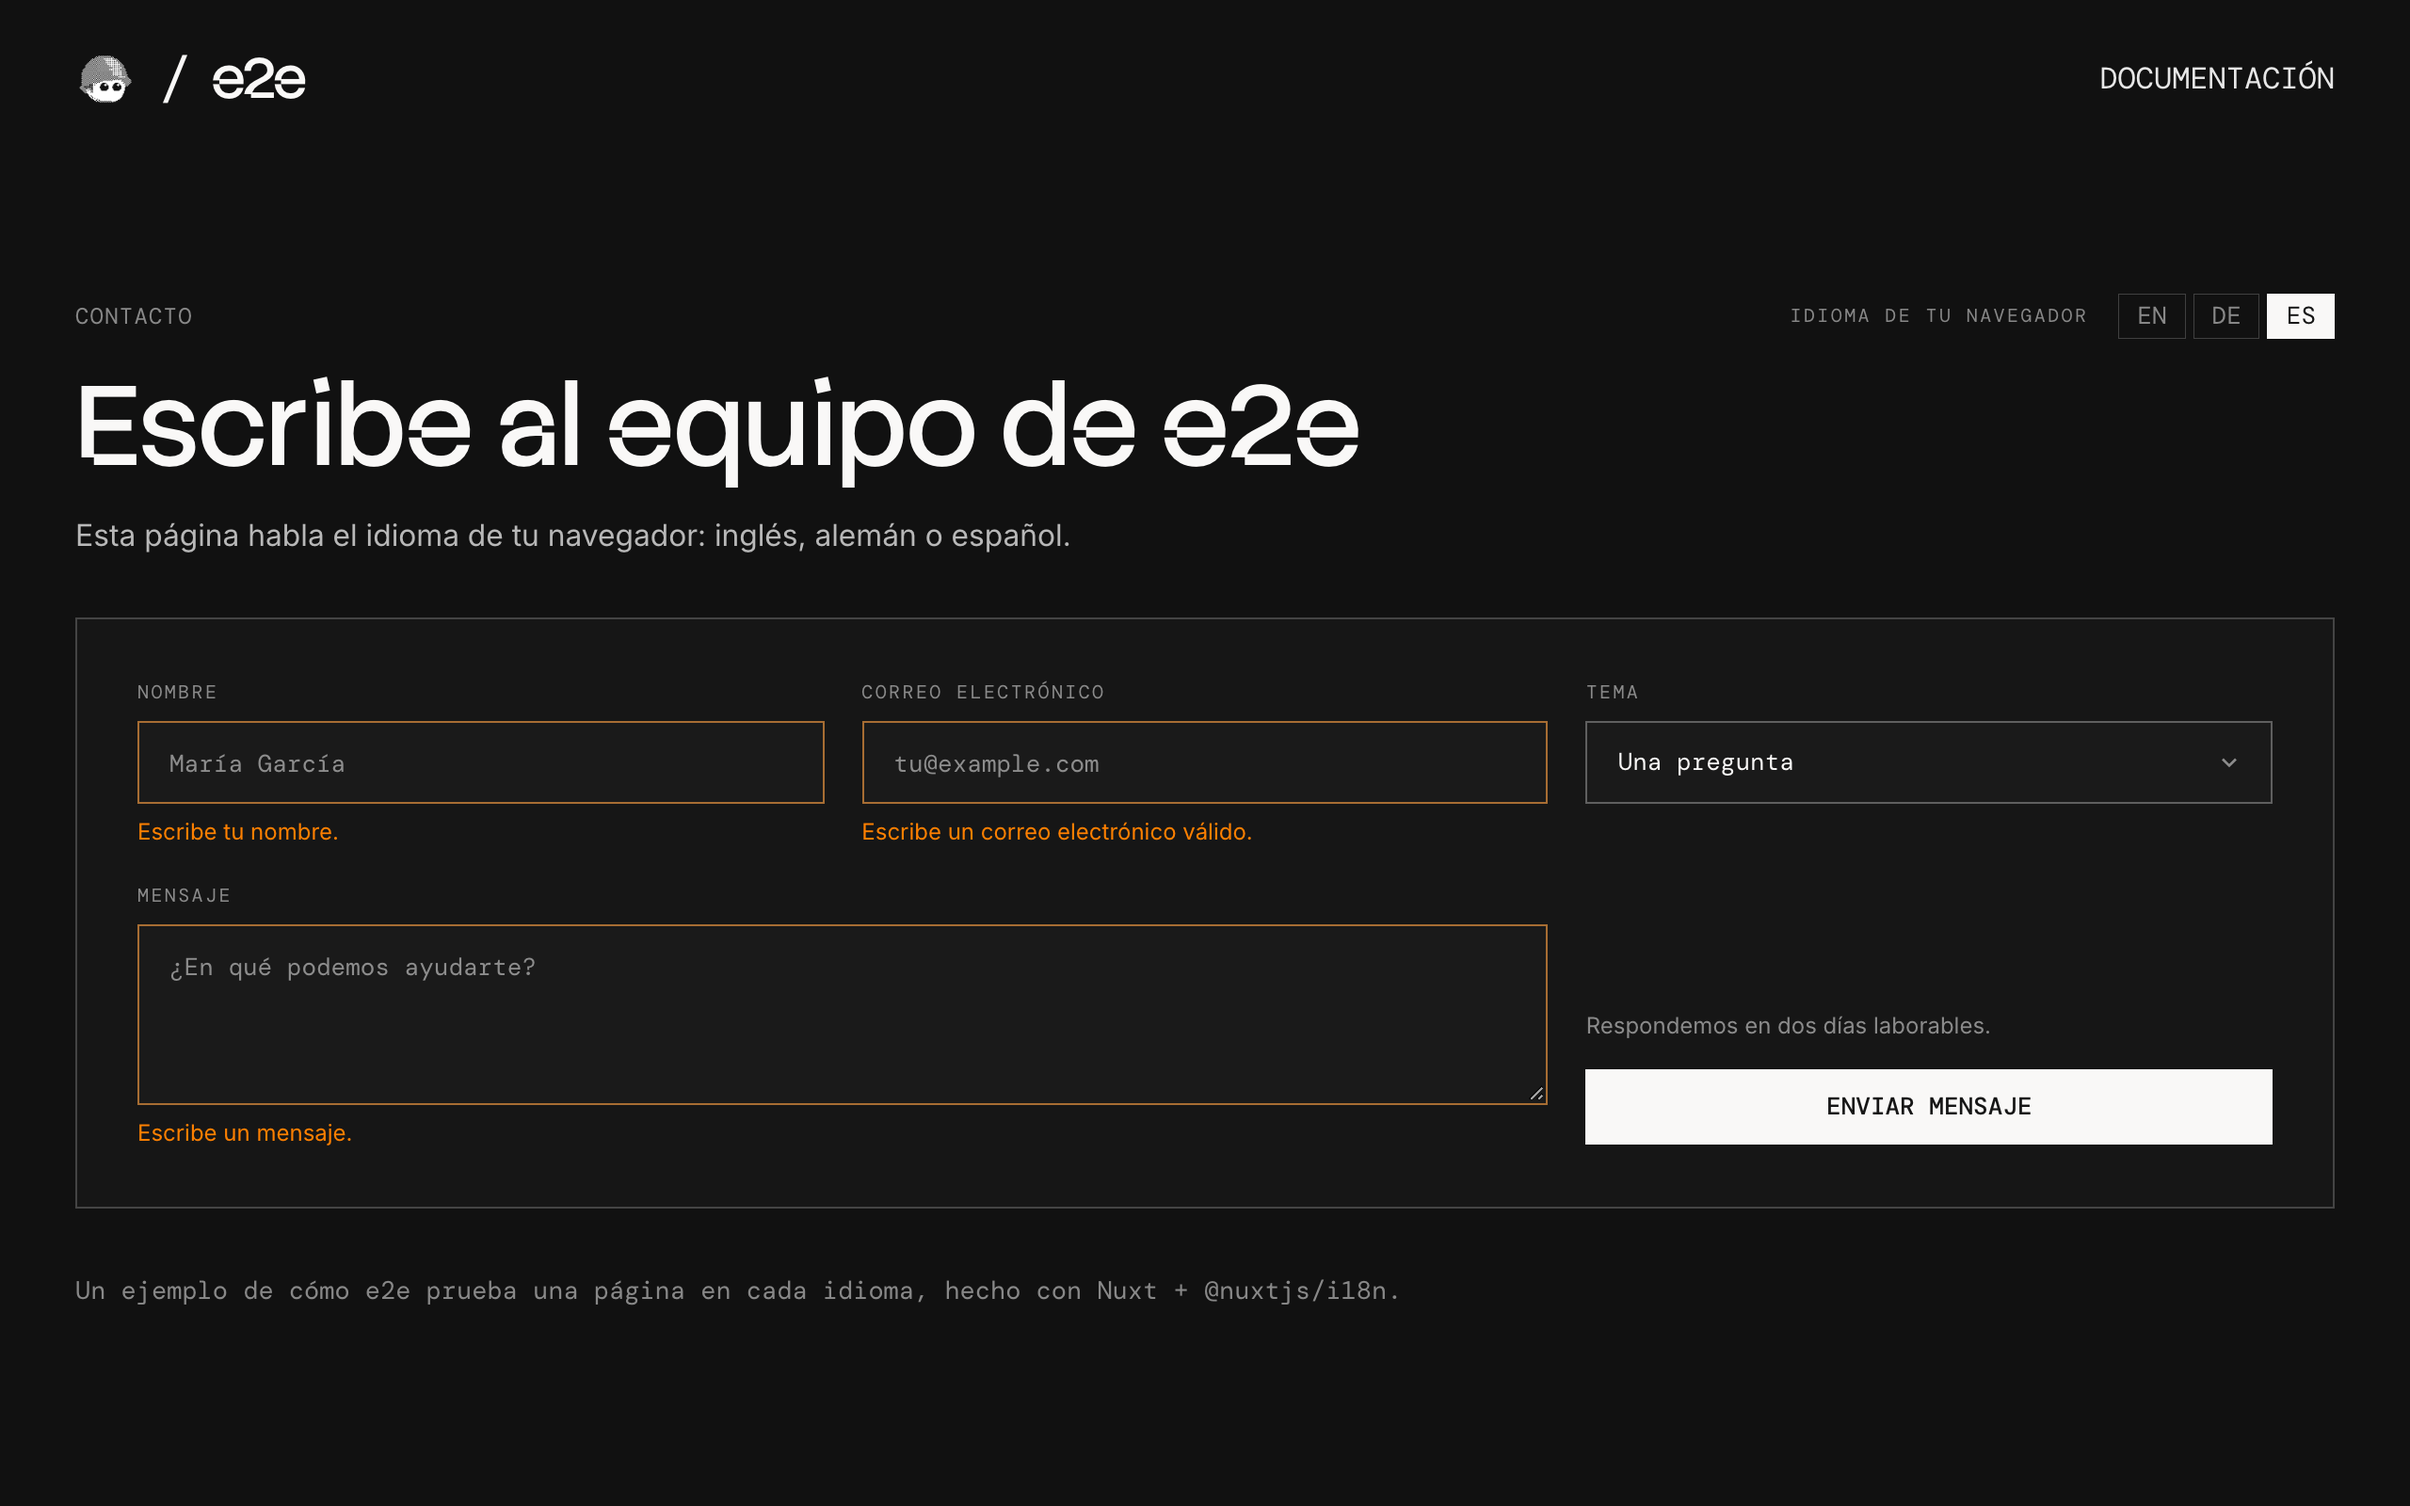
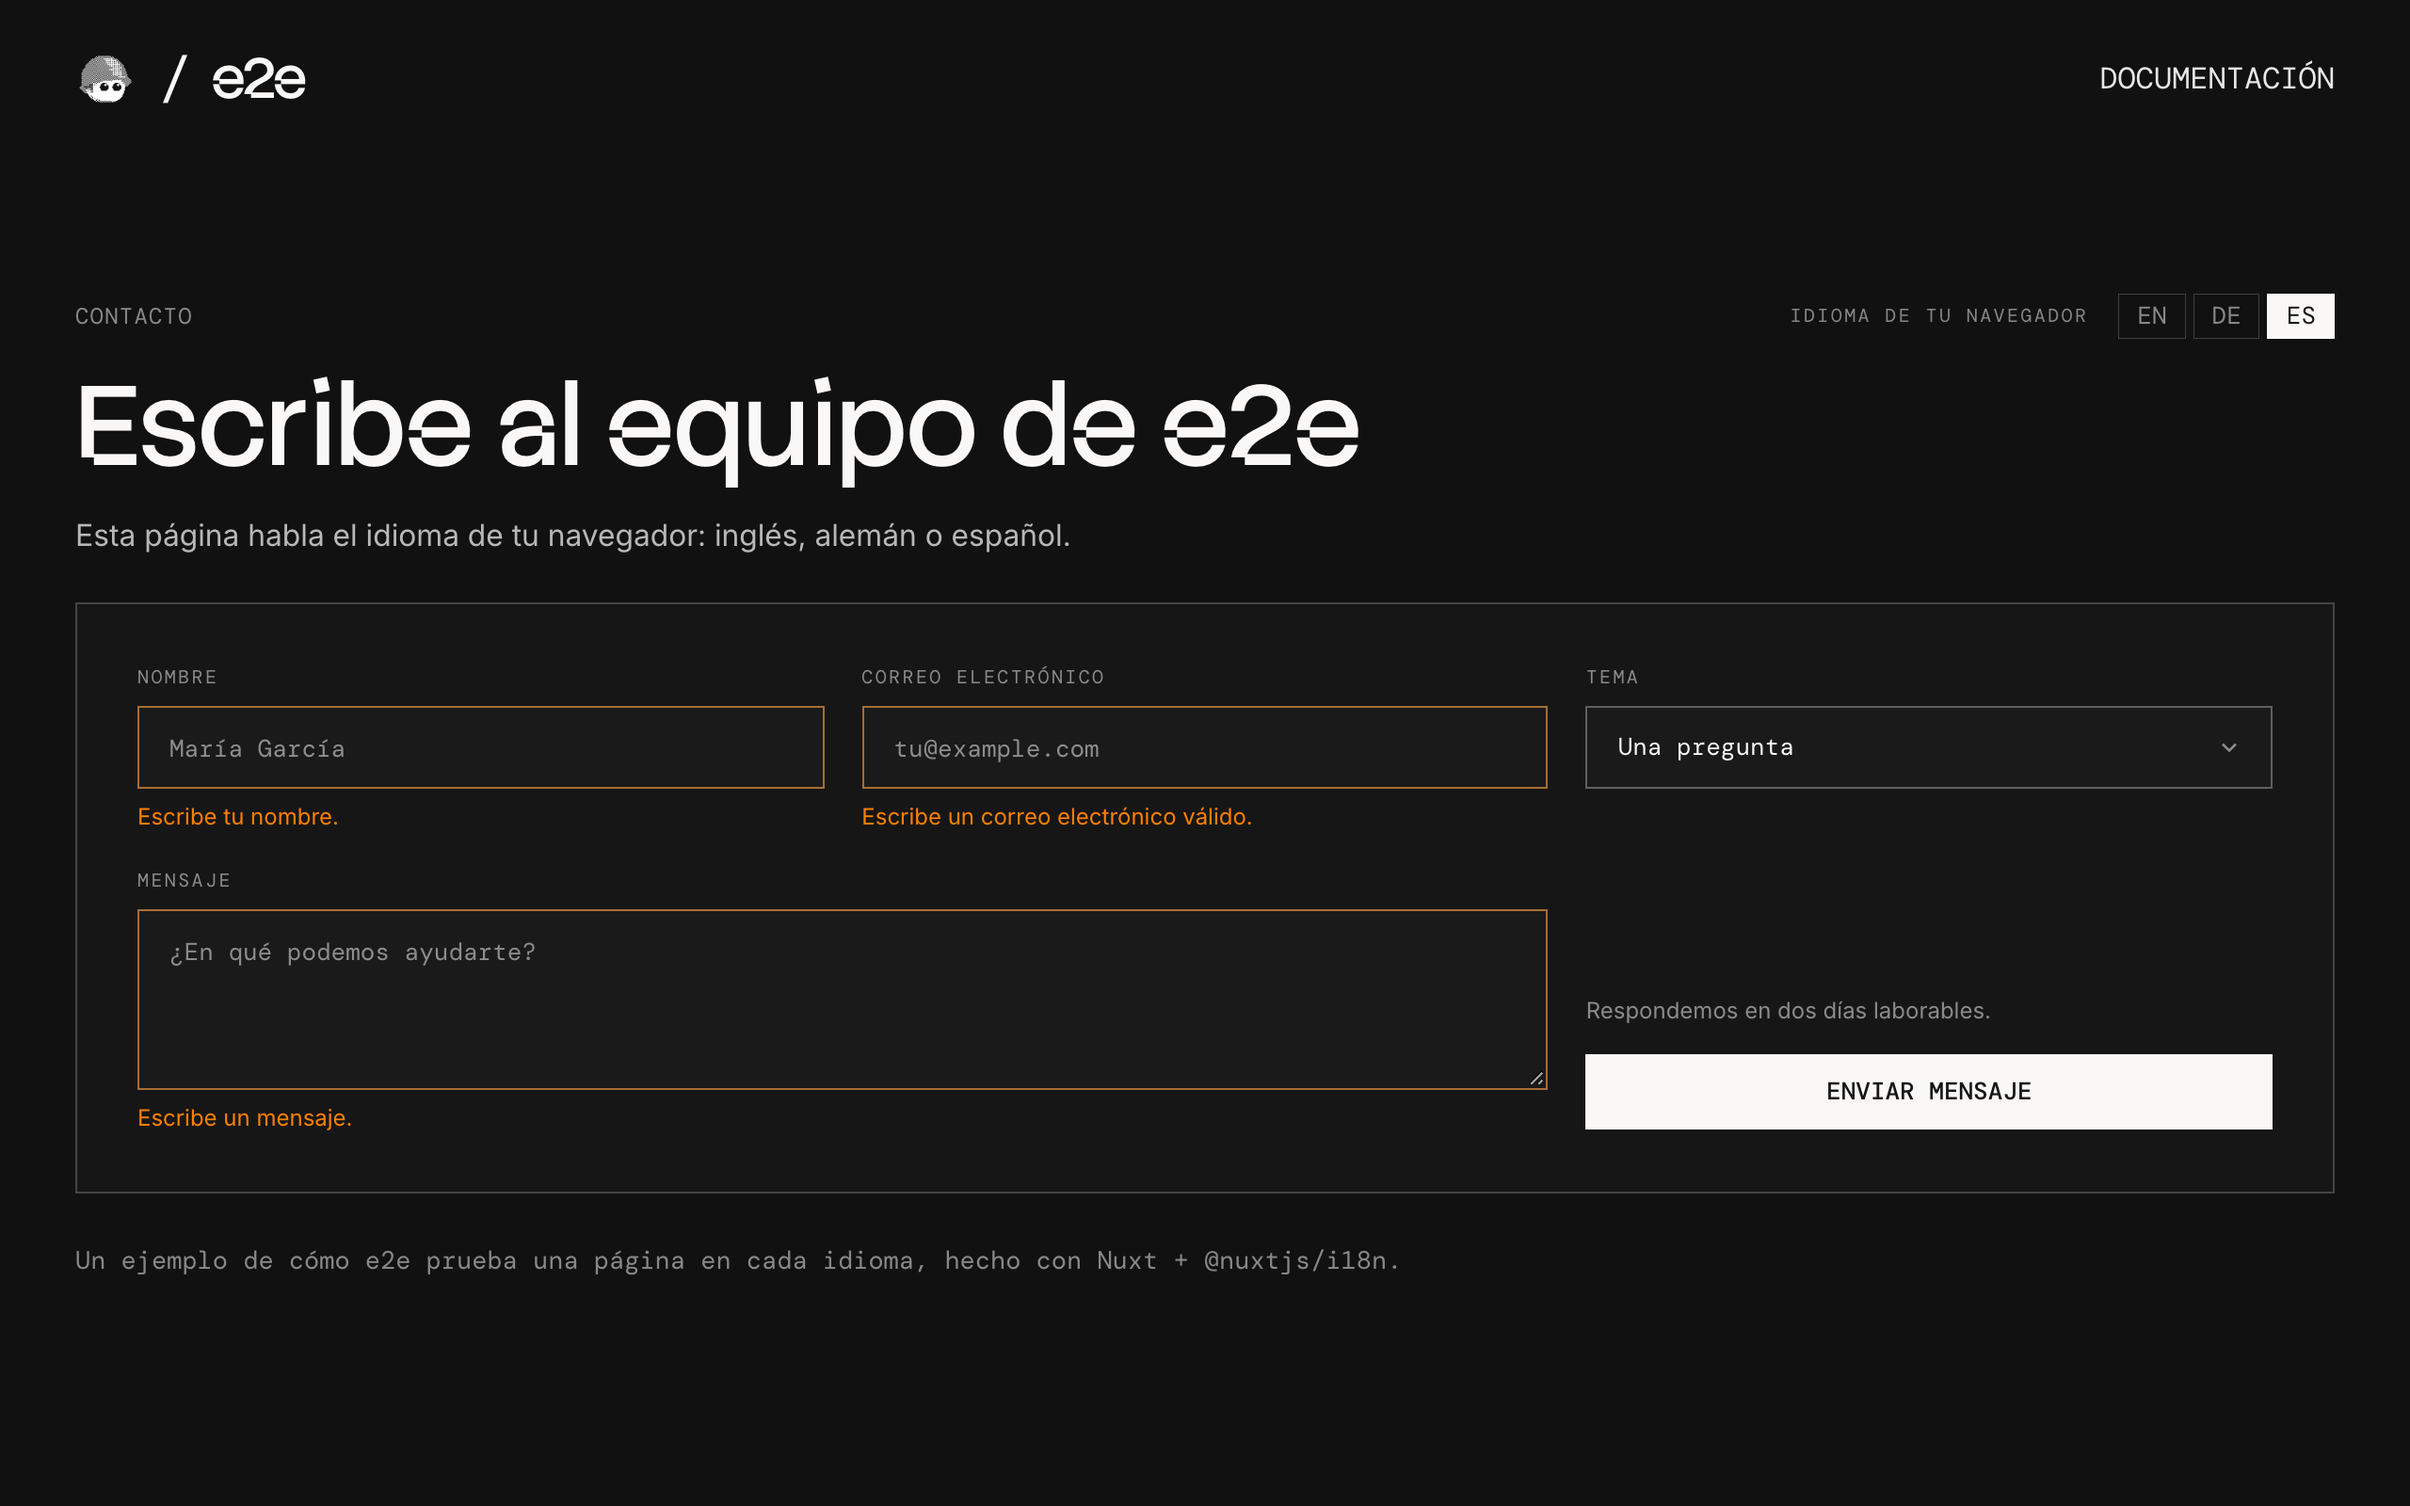
Fit the page in 1280×720 so it never scrolls

diff --git a/app/pages/index.vue b/app/pages/index.vue
@@ -1,6 +1,6 @@
 <template>
-  <main class="flex flex-1 flex-col px-6 pt-12 pb-20 sm:px-10 sm:pt-24">
-    <div class="mx-auto flex w-full max-w-300 flex-col gap-8">
+  <main class="flex flex-1 flex-col px-6 pt-12 pb-8 sm:px-10 sm:pt-24">
+    <div class="mx-auto flex w-full max-w-300 flex-col gap-6">
       <div class="flex flex-col gap-3">
         <div class="flex flex-wrap items-center justify-between gap-x-6 gap-y-3">
           <p class="type-eyebrow text-e2e-text-faint">{{ $t("intro.eyebrow") }}</p>
